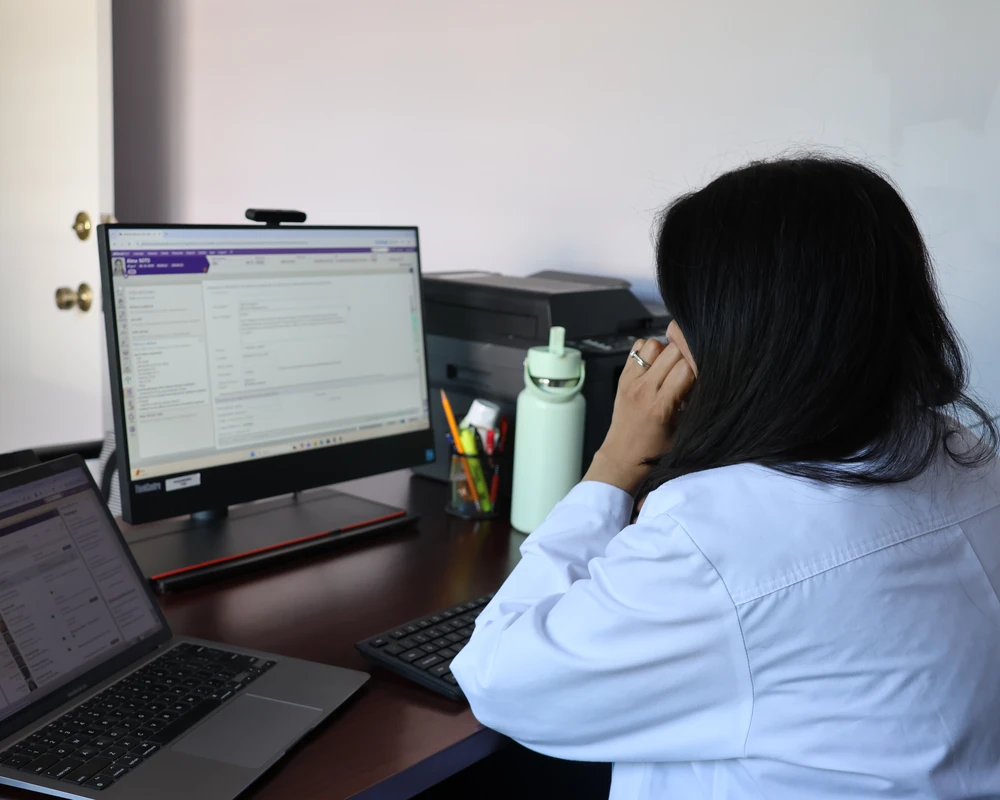
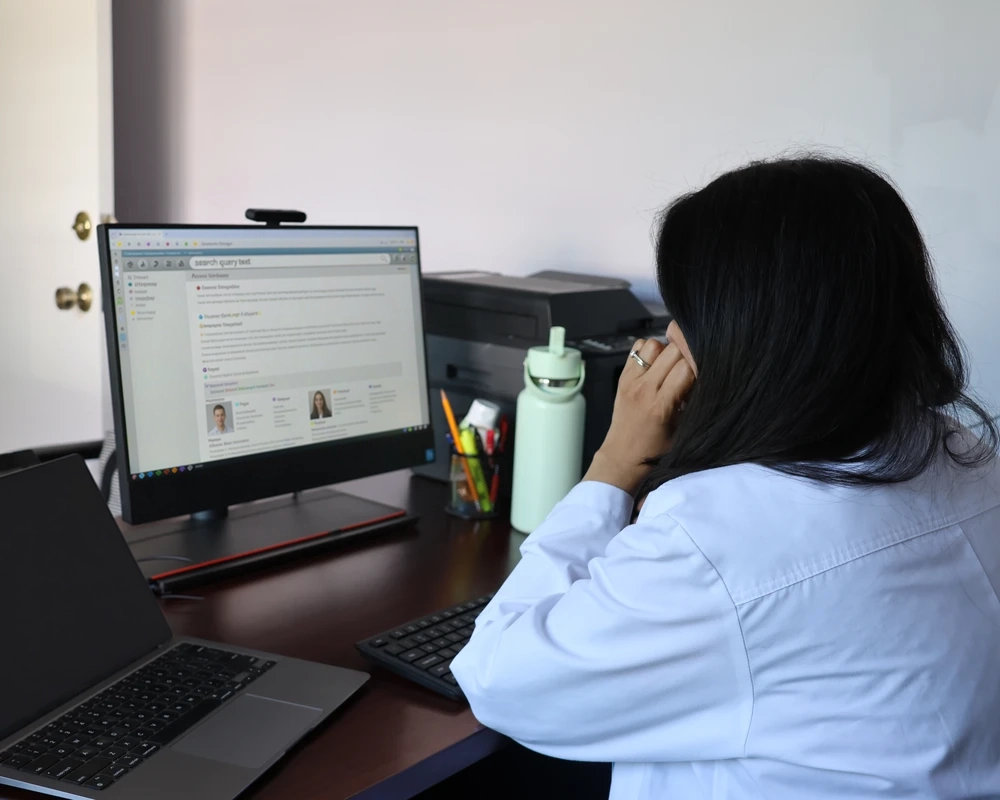
new image

diff --git a/src/app/lib/site-images.js b/src/app/lib/site-images.js
@@ -6,11 +6,20 @@ const SITE_IMAGE_BLOBS = {
   "first-medical-associates-doctors-9": `${SITE_IMAGE_BLOB_BASE_URL}/first-medical-associates-doctors-9.webp`,
 };
 
+const SITE_IMAGE_VERSIONS = {
+  "first-medical-associates-doctors-5": "51183c12",
+};
+
 export function getSiteImageBlobUrl(key = "") {
   return SITE_IMAGE_BLOBS[String(key || "").trim()] || "";
 }
 
 export function getSiteImageSrc(key = "") {
   const normalizedKey = String(key || "").trim();
-  return normalizedKey ? `/api/site-images/${encodeURIComponent(normalizedKey)}` : "";
+  if (!normalizedKey) return "";
+
+  const version = SITE_IMAGE_VERSIONS[normalizedKey];
+  const path = `/api/site-images/${encodeURIComponent(normalizedKey)}`;
+
+  return version ? `${path}?v=${encodeURIComponent(version)}` : path;
 }
